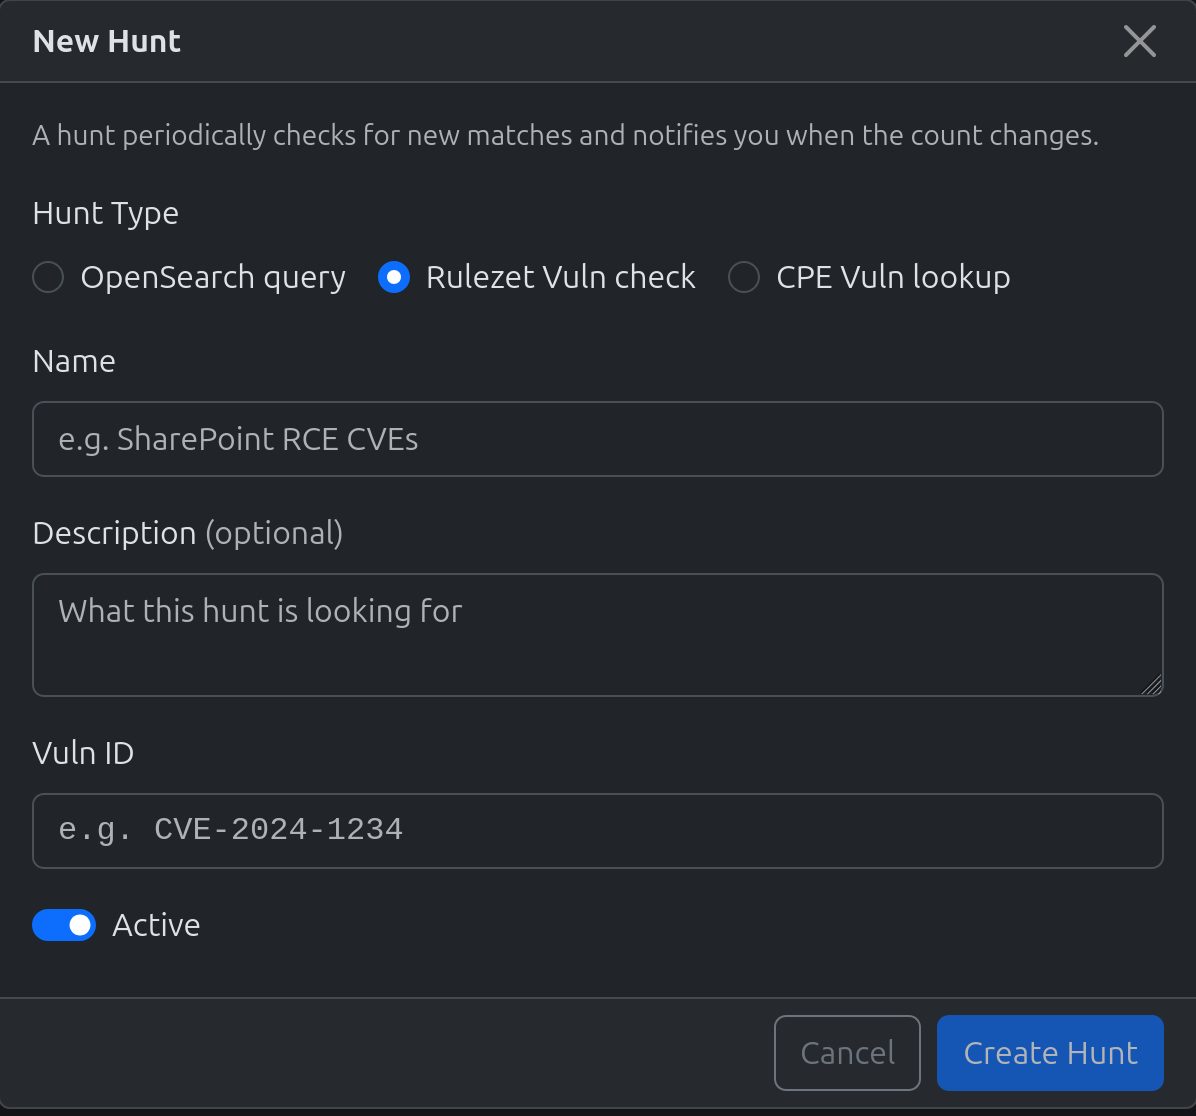
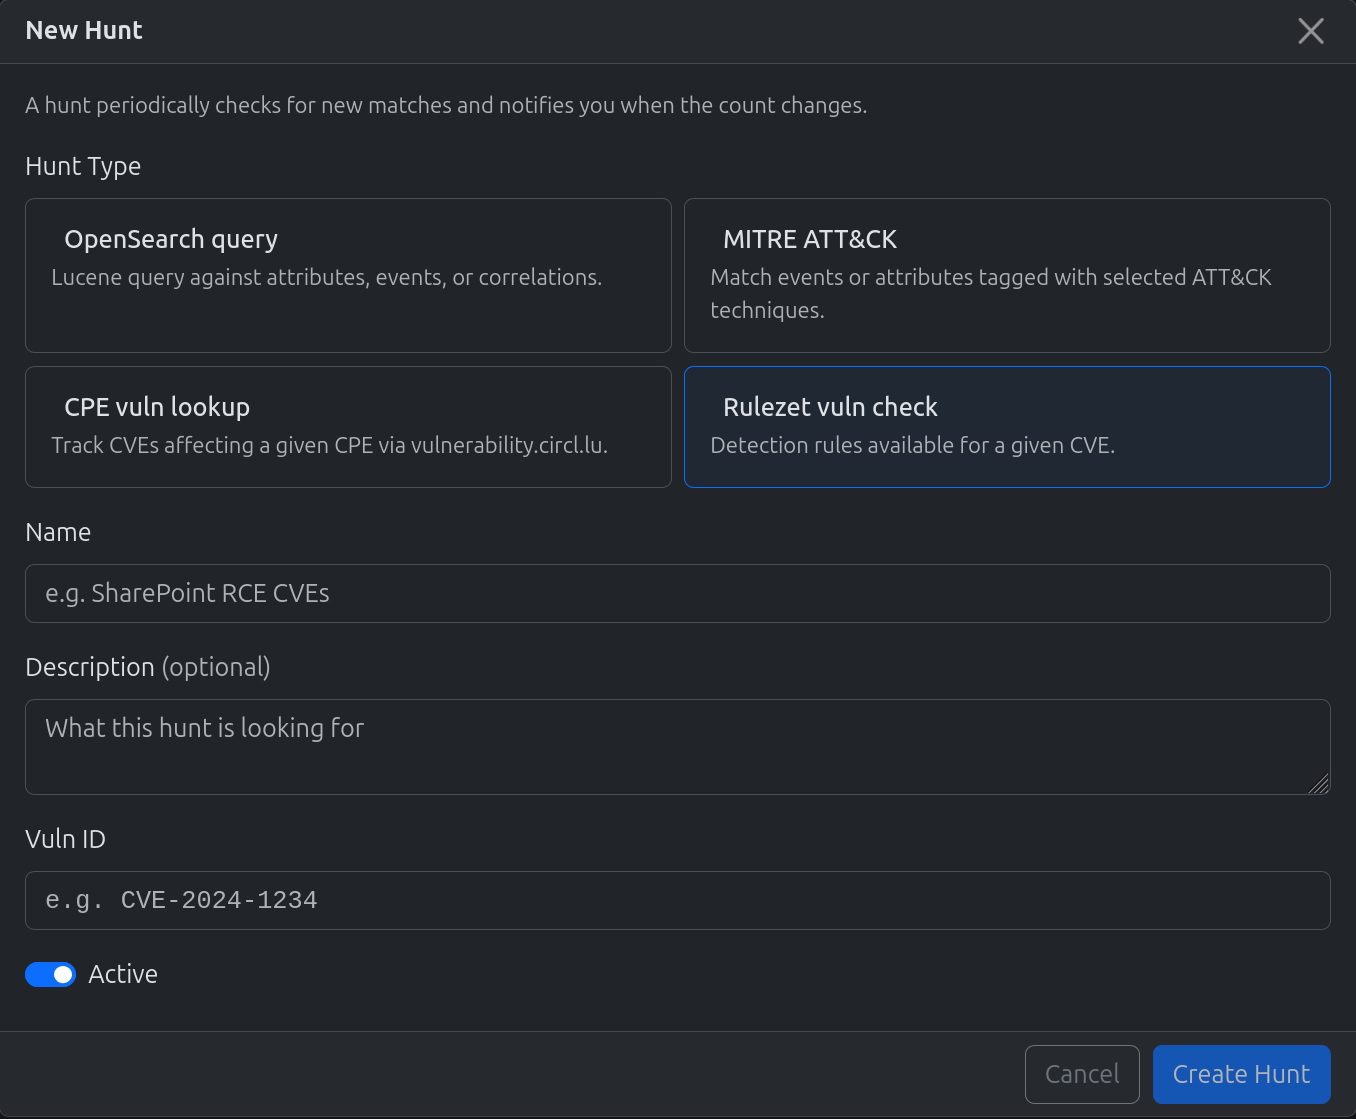
add: update docs, change screenshots

diff --git a/docs/features/hunts.md b/docs/features/hunts.md
@@ -24,13 +24,25 @@ Each hit in the result contains:
 
 Looks up detection rules from [rulezet.org](https://rulezet.org) by Vuln ID. The `query` field must be a vulnerability identifier (e.g. `CVE-2021-44228`, `ghsa-q4qf-26fw-9qw6`). Results contain the detection rules published for that vulnerability. The `index_target` field is ignored for rulezet hunts.
 
+### MITRE ATT&CK (`mitre-attack-pattern`)
+
+Matches events and/or attributes tagged with one or more MITRE ATT&CK techniques. The `query` field is a comma- or newline-separated list of MITRE technique codes (e.g. `T1391`, `T1078.004`), cluster UUIDs, or full galaxy tag names. Technique codes and UUIDs are resolved against the `mitre-attack-pattern` galaxy clusters at run time — if a code cannot be resolved the hunt execution returns a `400 Bad Request`, so the `mitre-attack-pattern` galaxy must be imported and enabled first.
+
+The `index_target` field selects where to look:
+
+| Value | Meaning |
+|---|---|
+| `events` | Search the `misp-events` index only |
+| `attributes` | Search the `misp-attributes` index only |
+| `attributes_and_events` | Search both indices — each hit is annotated with a `_doc_kind` field (`event` or `attribute`) |
+
 ## Concepts
 
 | Term | Description |
 |---|---|
-| **Query** | Lucene query (opensearch), CPE string (cpe), or Vuln ID (rulezet) |
-| **Index target** | Which index to search: `attributes`, `events`, or `correlations` (opensearch only) |
-| **Hunt type** | `opensearch`, `cpe`, or `rulezet` |
+| **Query** | Lucene query (opensearch), CPE string (cpe), Vuln ID (rulezet), or MITRE technique codes (mitre-attack-pattern) |
+| **Index target** | Which index to search: `attributes`, `events`, or `correlations` (opensearch); `attributes`, `events`, or `attributes_and_events` (mitre-attack-pattern) |
+| **Hunt type** | `opensearch`, `cpe`, `rulezet`, or `mitre-attack-pattern` |
 | **Status** | `active` or `paused` — paused hunts are skipped during scheduled runs |
 | **Run history** | Each execution stores a timestamp and match count |
 
@@ -48,6 +60,10 @@ Looks up detection rules from [rulezet.org](https://rulezet.org) by Vuln ID. The
     - _CPE_ hunt:
     
     <img src="../../screenshots/hunts/misp-workbench-2_hunts_new-cpe-hunt.png" style="height: 500px;">
+
+    - _MITRE ATT&CK_ hunt:
+    
+    <img src="../../screenshots/hunts/misp-workbench-2_hunts_new-mitre-attack-hunt.png" style="height: 500px;">
 
 2. Click the eye icon on the newly created hunt to view its details. To run the hunt immediately, click the ***Run Now*** button.
     <img src="../../screenshots/hunts/misp-workbench-3_hunts_view-opensearch-hunt.png" style="max-width: 100%; height: auto;">
@@ -101,6 +117,20 @@ POST /hunts/
 ```
 
 The `index_target` field is not required for CPE hunts.
+
+### MITRE ATT&CK hunt
+
+```json
+POST /hunts/
+{
+  "name": "Initial Access - Valid Accounts",
+  "description": "Surface events tagged with T1078 or its sub-techniques",
+  "query": "T1078, T1078.004",
+  "hunt_type": "mitre-attack-pattern",
+  "index_target": "attributes_and_events",
+  "status": "active"
+}
+```
 
 Required scopes: `hunts:create`
 
@@ -211,6 +241,38 @@ When a CPE hunt runs, each hit represents a CVE affecting the specified product.
 ```
 
 CVE IDs in the UI link directly to the corresponding record on [vulnerability.circl.lu](https://vulnerability.circl.lu).
+
+## MITRE ATT&CK hunt results
+
+When a MITRE ATT&CK hunt runs, each hit is an event or attribute carrying at least one of the requested technique tags. When `index_target` is `attributes_and_events`, each hit is annotated with a `_doc_kind` field so the UI can render the two kinds distinctly.
+
+```json
+{
+  "hunt": { "id": 9, "name": "Initial Access - Valid Accounts", ... },
+  "total": 2,
+  "hits": [
+    {
+      "_doc_kind": "event",
+      "uuid": "ba4b11b6-dcce-4315-8fd0-67b69160ea76",
+      "info": "Phishing campaign targeting HR",
+      "tags": [
+        { "name": "misp-galaxy:mitre-attack-pattern=\"Valid Accounts - T1078\"" }
+      ]
+    },
+    {
+      "_doc_kind": "attribute",
+      "uuid": "7f2fd15d-3c63-47ba-8a39-2c4b0b3314b0",
+      "type": "email-src",
+      "value": "attacker@example.com",
+      "tags": [
+        { "name": "misp-galaxy:mitre-attack-pattern=\"Cloud Accounts - T1078.004\"" }
+      ]
+    }
+  ]
+}
+```
+
+The `mitre-attack-pattern` galaxy must be imported and enabled (via `POST /galaxies/update` and `PATCH /galaxies/{id}`) before MITRE ATT&CK hunts can resolve technique codes.
 
 ## Rulezet hunt results
 
